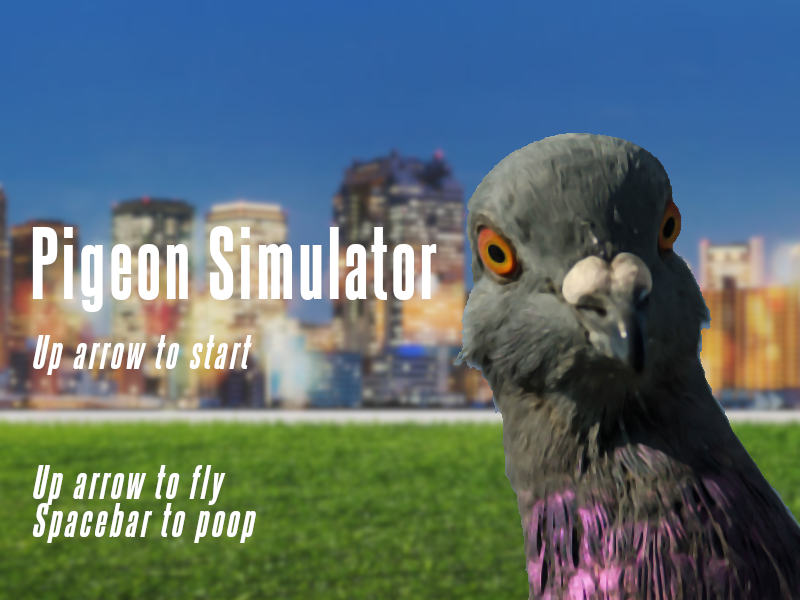
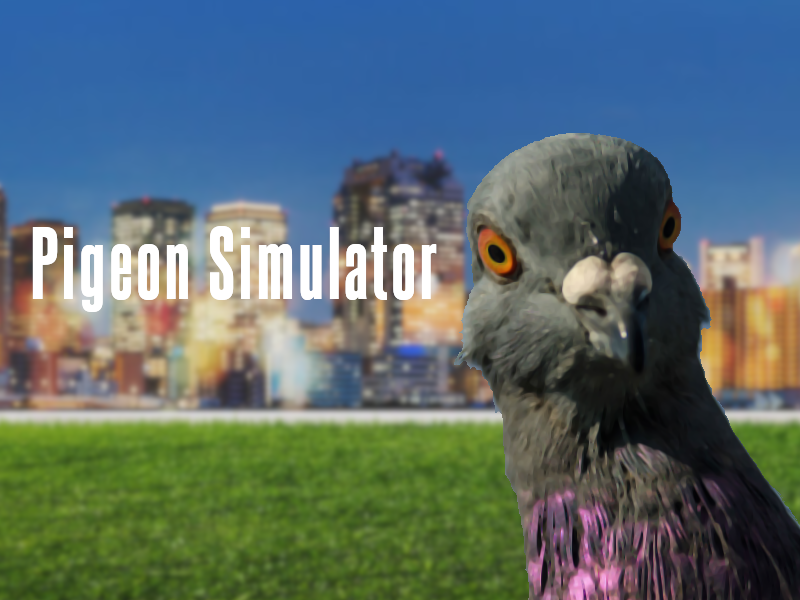
Update

Changed region(s): [[0.0312, 0.78, 0.3438, 0.9], [0.0312, 0.54, 0.3125, 0.63], [0.375, 0.42, 0.4062, 0.48]]

diff --git a/js/Game.js b/js/Game.js
@@ -6,7 +6,9 @@ class Game {
     this.shit = new Shit(this.player.x, this.player.y);
     this.powerLines = [];
     this.poops = [];
+    this.poopAmmo = 3;
     this.isDead = false;
+    this.chips = [];
 
     //game settings
     this.score = 0;
@@ -23,15 +25,17 @@ class Game {
 
   draw() {
     clear();
+    if (keyCode === UPARROW) {
+      startGame = true;
+    }
+    if (!startGame) {
+      image(menuImage, 0, 0, CANVASWIDTH, CANVASHEIGHT);
+      return;
+    }
     this.background.draw();
 
     if (frameCount % this.amount === 0) {
       this.powerLines.push(new Powerline(this.difficulty));
-    }
-    //score
-    if (frameCount % 60 === 0) {
-      this.score++;
-      scoreHolder.innerText = this.score + "m";
     }
     this.powerLines.forEach((powerLine, index) => {
       powerLine.draw();
@@ -46,7 +50,21 @@ class Game {
         scoreHolder.innerText = this.score;
         this.isDead = true;
         this.player.x -= this.difficulty;
-        redraw();
+        startGame = false;
+      }
+    });
+    if (frameCount % 1000 === 0) {
+      this.chips.push(new Chippy());
+    }
+    this.chips.forEach((chip, index) => {
+      chip.draw();
+      if (chip.rightSide <= 0) {
+        this.chips.splice(index, 1);
+      }
+      if (this.chipCollisionCheck(chip, this.player)) {
+        this.chips.splice(index, 1);
+        this.eatsound();
+        this.poopAmmo++;
       }
     });
     if (this.player.y > 540) {
@@ -77,10 +95,16 @@ class Game {
       if (this.poopCollisionCheck(poop, this.man)) {
         this.poops.splice(index, 1);
         this.score2++;
-        poopHolder.innerText = this.score2 + "💩";
+        poopHolder.innerText = this.score2;
         console.log("shit landed");
       }
     });
+
+    //score
+    if (frameCount % 60 === 0) {
+      this.score++;
+      scoreHolder.innerText = this.score + "m";
+    }
   }
 
   keyPressed() {
@@ -88,7 +112,8 @@ class Game {
       if (keyCode === UPARROW) {
         this.player.jump();
       }
-      if (keyCode === SPACE) {
+      if (keyCode === DOWNARROW && this.poopAmmo > 0) {
+        this.poopAmmo--;
         this.poopsound();
         this.poops.push(new Shit(this.player.x, this.player.y));
       }
@@ -134,9 +159,32 @@ class Game {
 
     return true;
   }
+  chipCollisionCheck(chip, player) {
+    if (chip.bottomSide < player.topSide) {
+      return false;
+    }
+
+    if (chip.rightSide < player.leftSide) {
+      return false;
+    }
+
+    if (chip.leftSide > player.rightSide) {
+      return false;
+    }
+
+    if (chip.topSide > player.bottomSide) {
+      return false;
+    }
+
+    return true;
+  }
 
   poopsound() {
     let poopSound = document.getElementById("poopSound");
     poopSound.play();
+  }
+  eatsound() {
+    let eatSound = document.getElementById("eatsound");
+    eatSound.play();
   }
 }

diff --git a/index.html b/index.html
@@ -4,18 +4,28 @@
   <meta charset="UTF-8">
   <meta http-equiv="X-UA-Compatible" content="IE=edge">
   <meta name="viewport" content="width=device-width, initial-scale=1.0">
-  <title>My great game</title>
+  <title>Pigeon Simulator</title>
   <script src="https://cdn.jsdelivr.net/npm/p5@1.2.0/lib/p5.js"></script>
   <link rel="stylesheet" href="styles.css">
+  <link rel="icon" type="image/ico" href="./assets/favicon-32x32.png">
 </head>
 <body>
-  <h1>Distance: <span class="distance">0</span></h1>
-  <h1>Shits landed: <span class="poop">0💩</span></h1>
+  <header>
+    <div>
+      <h1>Distance: <span class="distance">0</span></h1>
+      <h1>Shits landed: <span class="poop">0</span></h1>
+    </div>
+    <div>
+      <p>Up arrow to start game <br>Up arrow to fly <br>Down arrow to release bowels</p>
+    </div>
+  </header>
 
   <audio id="poopSound" src="./assets/poop.wav"></audio>
+  <audio id='eatsound' src="./assets/eat.mp3"></audio>
   <script src="js/Variables.js"></script>
   <script src="js/Background.js"></script>
   <script src="js/Obstacles.js"></script>
+  <script src="js/Chip.js"></script>
   <script src="js/Shit.js"></script>
   <script src="js/Man.js"></script>
   <script src="js/Player.js"></script>

diff --git a/js/Main.js b/js/Main.js
@@ -3,27 +3,15 @@ const game = new Game();
 let startGame = false;
 
 function draw() {
-  if (startGame) {
-    game.draw();
-  } else {
-    canvas = createCanvas(CANVASWIDTH, CANVASHEIGHT);
-    image(menuImage, 0, 0, CANVASWIDTH, CANVASHEIGHT);
-    if (keyCode === UPARROW) {
-      startGame = true;
-    }
-  }
+  game.draw();
 }
 
 function setup() {
-  if (startGame) {
-    game.setup();
-  }
+  game.setup();
 }
 
 function keyPressed() {
-  if (startGame) {
-    game.keyPressed();
-  }
+  game.keyPressed();
 }
 
 function preload() {
@@ -33,6 +21,7 @@ function preload() {
   sidewalkImage = loadImage("./assets/sidewalk.png");
   powerLines = loadImage("./assets/Powerline.png");
   poop = loadImage("./assets/Poop.png");
+  chippy = loadImage("./assets/chip.png");
 
   for (let i = 0; i < 5; i++) {
     pigeon[i] = loadImage("./assets/tile" + i + ".png");

diff --git a/js/Chip.js b/js/Chip.js
@@ -1,0 +1,30 @@
+class Chippy {
+  constructor() {
+    this.x = 1000;
+    this.y = random(50, 350);
+    this.height = 40;
+    this.width = 7;
+    this.speed = 2;
+  }
+
+  draw() {
+    image(chippy, this.x, this.y, this.height, this.width);
+
+    this.x -= this.speed;
+  }
+
+  get bottomSide() {
+    return this.y + this.height;
+  }
+
+  get topSide() {
+    return this.y;
+  }
+
+  get leftSide() {
+    return this.x;
+  }
+  get rightSide() {
+    return this.x + this.width;
+  }
+}

diff --git a/js/Variables.js b/js/Variables.js
@@ -3,7 +3,7 @@ const CANVASHEIGHT = 600;
 const CANVASWIDTH = 800;
 
 const UPARROW = 38;
-const SPACE = 32;
+const DOWNARROW = 40;
 
 //images
 let menuImage;
@@ -14,9 +14,10 @@ let powerLines;
 let plane;
 let pigeon = [];
 let poop;
-var currentPigeonIndex = 0;
+let currentPigeonIndex = 0;
 let man = [];
-var currentManIndex = 0;
+let currentManIndex = 0;
+let chippy;
 
 //game variables
 const GRAVITY = 0.12;

diff --git a/styles.css b/styles.css
@@ -1,9 +1,23 @@
 body {
-  background-color: rgb(61, 57, 57);
+  background-color: rgb(156, 214, 154);
 }
 
 canvas {
   background-color: rgb(176, 224, 230);
   display: block;
   margin: 0 auto;
+}
+
+h1 {
+  color: blue;
+}
+
+header {
+  display: flex;
+  justify-content: space-between;
+}
+
+p {
+  font-size: 20px;
+  color: blue;
 }

diff --git a/js/Man.js b/js/Man.js
@@ -5,6 +5,7 @@ class Man {
     this.height = 120;
     this.width = 120;
     this.spawnTime = 1000;
+    this.speed = 2;
   }
 
   draw() {
@@ -19,7 +20,7 @@ class Man {
       this.width
     );
 
-    this.x -= 3;
+    this.x -= this.speed;
 
     if (this.x <= -this.width) {
       this.x = this.spawnTime;
